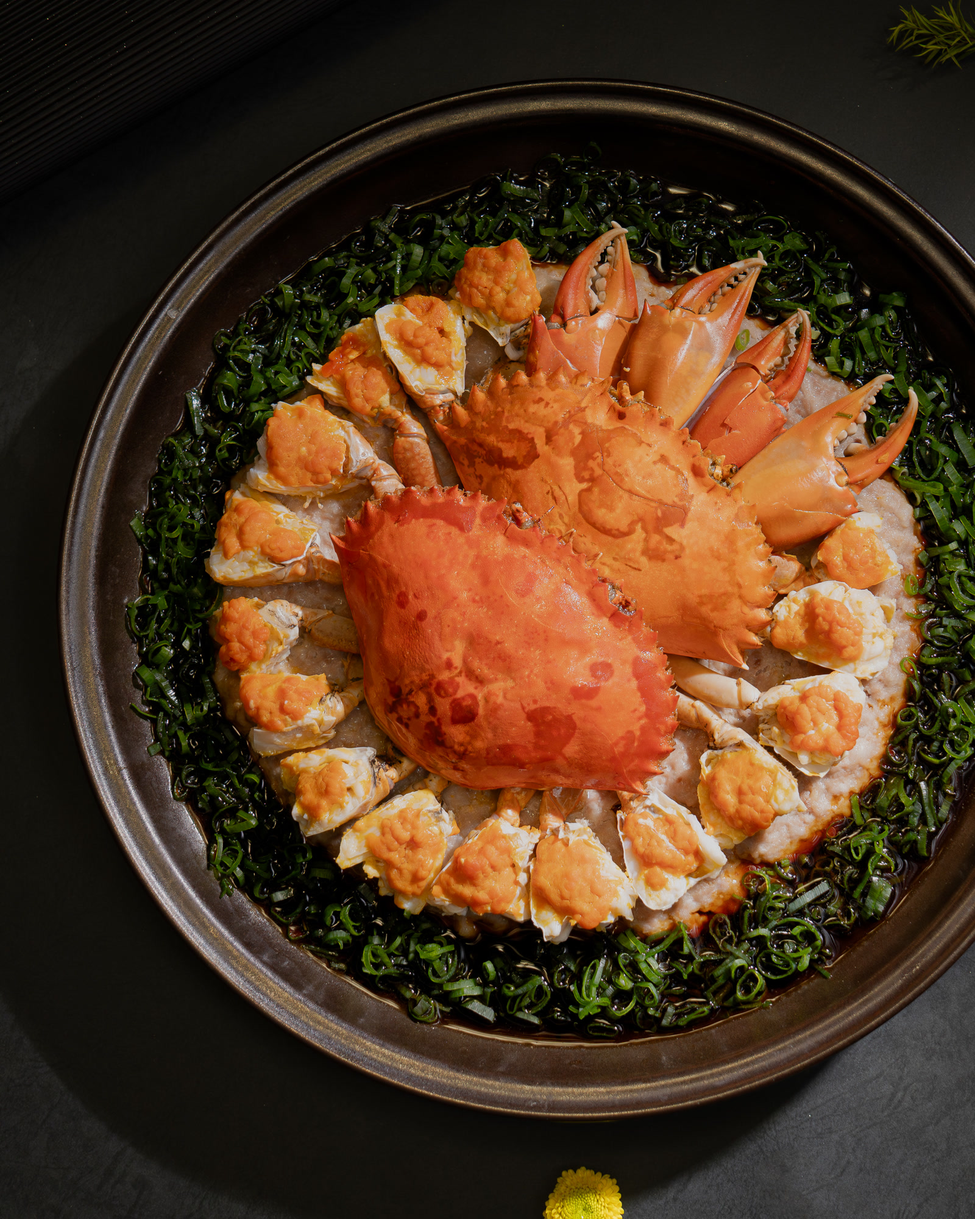
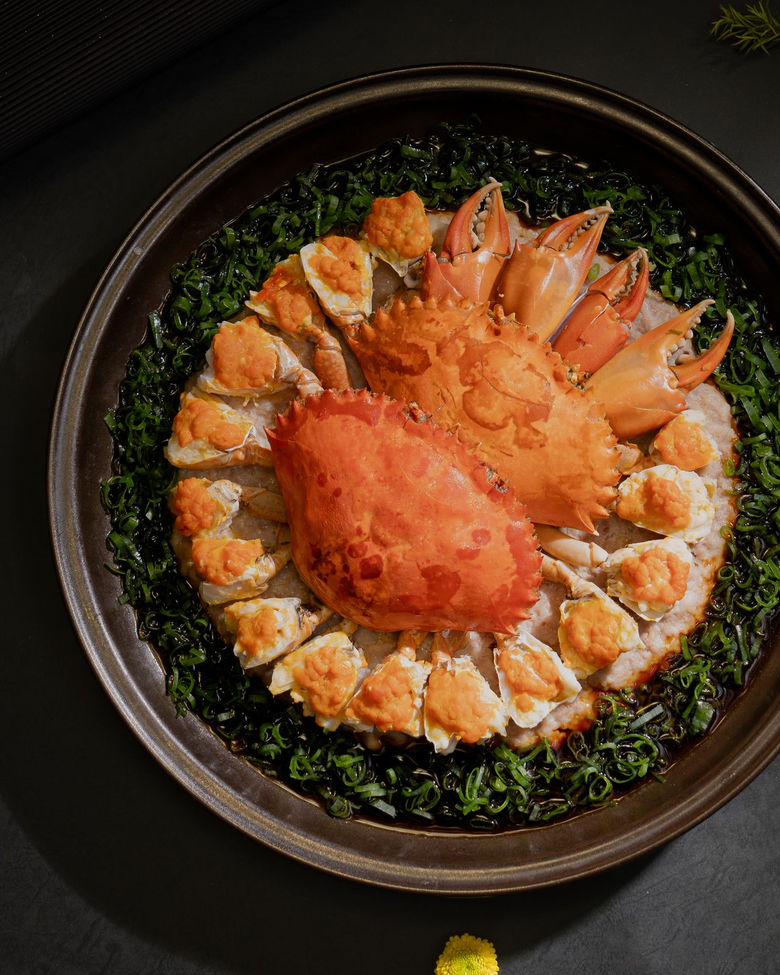
Serve homepage food/video tiles via jdsys routes + compressed assets
jsDelivr failed on the private repo; nested public files also 404'd on
Manus. Compress tiles, expose flat /home-tile-*.jpg paths, and add an
Express fallback that reads repo asset files before SPA fallback.

diff --git a/server/_core/index.ts b/server/_core/index.ts
@@ -2,6 +2,8 @@ import "dotenv/config";
 import express from "express";
 import { createServer } from "http";
 import net from "net";
+import fs from "fs";
+import path from "path";
 import { createExpressMiddleware } from "@trpc/server/adapters/express";
 import { registerOAuthRoutes } from "./oauth";
 import { appRouter } from "../routers";
@@ -10,6 +12,30 @@ import { serveStatic, setupVite } from "./vite";
 import { startScheduler } from "../scheduler";
 import { updateEmailLogTracking, updateEmailInquiryTracking, updateEmailLogOpenTracking, updateEmailInquiryOpenById, recordWhatsappClick, backfillEmailInquiryLeadSources, ensureAdsQuoteAttributionSchema } from "../db";
 import { ENV } from "./env";
+
+/** Homepage Squarespace tiles — serve even if Vite public copy is missing on host. */
+const HOME_TILE_FILES: Record<string, string> = {
+  "food-crab.jpg": "food-crab.jpg",
+  "video-bts.jpg": "video-bts.jpg",
+  "home-tile-food-crab.jpg": "food-crab.jpg",
+  "home-tile-video-bts.jpg": "video-bts.jpg",
+};
+
+function resolveHomeTilePath(fileName: string): string | null {
+  const mapped = HOME_TILE_FILES[fileName];
+  if (!mapped) return null;
+  const candidates = [
+    path.resolve(process.cwd(), "client/public/home-tiles", mapped),
+    path.resolve(process.cwd(), "client/public", fileName),
+    path.resolve(process.cwd(), "content/geo-aeo/assets/home-tiles", mapped),
+    path.resolve(process.cwd(), "dist/public/home-tiles", mapped),
+    path.resolve(process.cwd(), "dist/public", fileName),
+  ];
+  for (const p of candidates) {
+    if (fs.existsSync(p)) return p;
+  }
+  return null;
+}
 
 function isPortAvailable(port: number): Promise<boolean> {
   return new Promise(resolve => {
@@ -750,6 +776,21 @@ async function startServer() {
       createContext,
     })
   );
+  // Homepage tile images for Squarespace home-lower code block (must precede SPA fallback)
+  app.get(["/home-tiles/:file", "/home-tile-food-crab.jpg", "/home-tile-video-bts.jpg"], (req, res) => {
+    const file =
+      typeof req.params.file === "string"
+        ? req.params.file
+        : (req.path.split("/").pop() || "");
+    const abs = resolveHomeTilePath(file);
+    if (!abs) {
+      return res.status(404).type("text/plain").send("Not found");
+    }
+    res.setHeader("Cache-Control", "public, max-age=86400, immutable");
+    res.type("image/jpeg");
+    return res.sendFile(abs);
+  });
+
   // development mode uses Vite, production mode uses static files
   if (process.env.NODE_ENV === "development") {
     await setupVite(app, server);

diff --git a/content/geo-aeo/home-lower.squarespace-codeblock.html b/content/geo-aeo/home-lower.squarespace-codeblock.html
@@ -237,7 +237,7 @@
         </li>
         <li>
           <a class="work" href="https://www.jdstudiohk.com/services/food-photography" aria-label="食物攝影 — 進入服務頁">
-            <div class="ph"><img src="https://jdsys.biz/home-tiles/food-crab.jpg" alt="JD Studio 食物攝影作品：蟹宴特寫" width="1600" height="2000" loading="lazy" decoding="async"></div>
+            <div class="ph"><img src="https://jdsys.biz/home-tile-food-crab.jpg" alt="JD Studio 食物攝影作品：蟹宴特寫" width="1600" height="2000" loading="lazy" decoding="async"></div>
             <div class="cap"><h3>食物攝影</h3></div>
           </a>
         </li>
@@ -261,7 +261,7 @@
         </li>
         <li>
           <a class="work" href="https://www.jdstudiohk.com/services/video-project" aria-label="影片／TVC — 進入服務頁">
-            <div class="ph"><img src="https://jdsys.biz/home-tiles/video-bts.jpg" alt="JD Studio 影片製作幕後：專業電影機組" width="1600" height="2000" loading="lazy" decoding="async"></div>
+            <div class="ph"><img src="https://jdsys.biz/home-tile-video-bts.jpg" alt="JD Studio 影片製作幕後：專業電影機組" width="1600" height="2000" loading="lazy" decoding="async"></div>
             <div class="cap"><h3>影片／TVC</h3></div>
           </a>
         </li>

diff --git a/content/geo-aeo/home-lower.ux.md b/content/geo-aeo/home-lower.ux.md
@@ -4,7 +4,7 @@
 
 ## Rules
 - No prices on homepage tiles / FAQ
-- **Own work only** — JD Studio portfolio frames (Squarespace CDN for most tiles; food crab + video BTS served from `https://jdsys.biz/home-tiles/` until uploaded to Squarespace Asset Library)
+- **Own work only** — JD Studio portfolio frames (Squarespace CDN for most tiles; food crab + video BTS served from `https://jdsys.biz/home-tile-*.jpg` until uploaded to Squarespace Asset Library)
 - Strict 4×2 wall, 4:5 cover crop, shared CSS grade
 - Preserve palette: `#050507` / gold `#c9a962` / Noto Sans TC — not a dashboard
 
@@ -12,11 +12,11 @@
 | Service | File |
 |---|---|
 | 產品攝影 | `A7R06570.jpg` (porcelain vase) |
-| 食物攝影 | `food-crab.jpg` → `https://jdsys.biz/home-tiles/food-crab.jpg` |
+| 食物攝影 | `food-crab.jpg` → `https://jdsys.biz/home-tile-food-crab.jpg` |
 | 室內攝影 | `A7R00140.jpg` (Busy Bee boutique) |
 | 珠寶攝影 | `2101+A1.jpg` (diamond ring) |
 | 企業活動 | `DSC02693.jpg` (Cathay signing handshake) |
-| 影片／TVC | `video-bts.jpg` → `https://jdsys.biz/home-tiles/video-bts.jpg` |
+| 影片／TVC | `video-bts.jpg` → `https://jdsys.biz/home-tile-video-bts.jpg` |
 | 派對活動 | `DSC04196.jpg` (family celebration cake) |
 | 餐牌設計 | hotel dessert (`4酒店…`) |
 | Close | `AKE_Cariam-2-Product-Shot-0324.jpg` |
